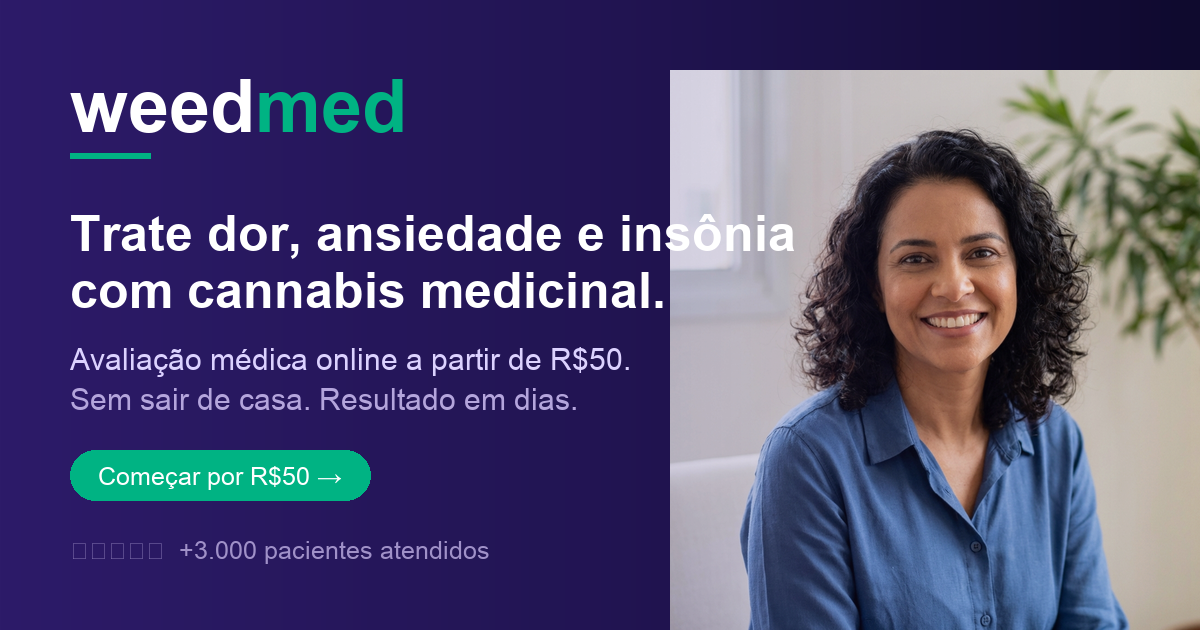
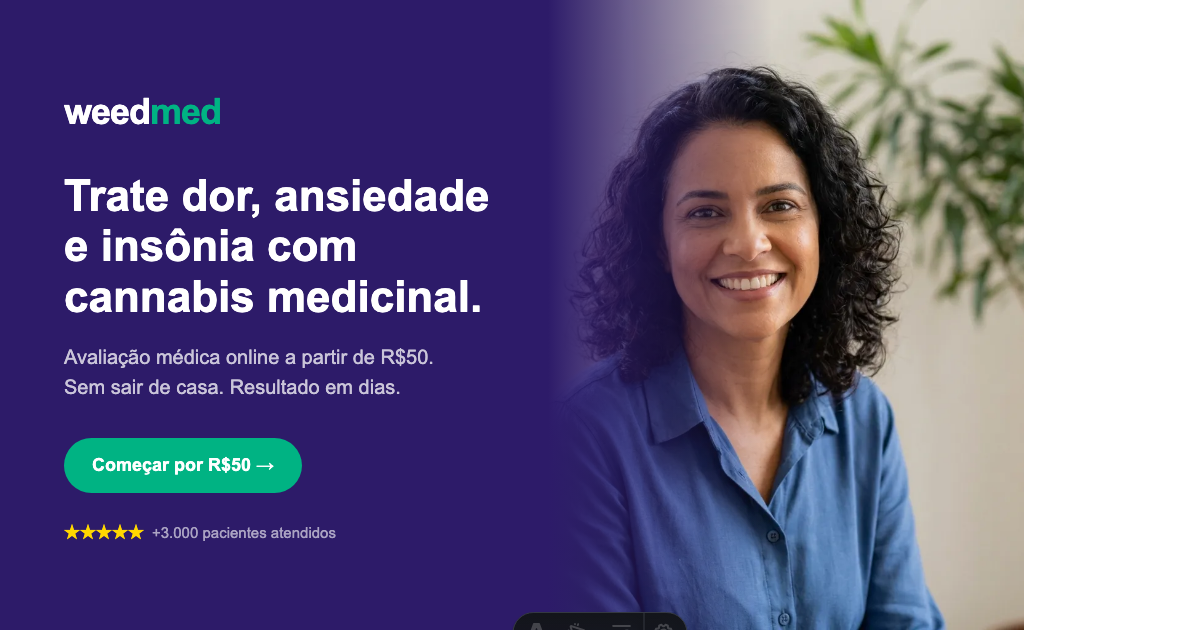
fix: hero overlap on md, lavender bg, open-chat CTAs, og-image redesign
- HeroStatic: constrain text to md:max-w-[52%] to prevent image overlap on ~900px screens
- Doctors: bg #F9F8FF → #EDE9F8 (visible lavender background)
- FAQ, Steps, ProblemPicker: replace querySelector workaround with open-chat class directly on buttons
- og-image.png: redesigned with text left / photo right, no overlap

diff --git a/src/components/Steps.tsx b/src/components/Steps.tsx
@@ -190,8 +190,7 @@ export default function Steps() {
               Fale <strong className="text-gray-700 font-semibold">gratuitamente</strong> com um consultor especialista pelo WhatsApp. Em minutos ele entende sua situação e te orienta sobre o melhor caminho.
             </p>
             <button
-              onClick={() => document.querySelector<HTMLElement>('.open-chat')?.click()}
-              className="inline-flex items-center gap-1 text-sm font-semibold hover:opacity-75 transition-opacity text-left"
+              className="open-chat inline-flex items-center gap-1 text-sm font-semibold hover:opacity-75 transition-opacity text-left"
               style={{ color: '#00B383', fontFamily: "'Inter', system-ui, sans-serif" }}
               data-cta="steps_whatsapp"
             >

diff --git a/src/components/FAQ.tsx b/src/components/FAQ.tsx
@@ -142,8 +142,7 @@ export default function FAQ() {
             Ainda tem dúvidas?
           </p>
           <button
-            onClick={() => document.querySelector<HTMLElement>('.open-chat')?.click()}
-            className="inline-flex items-center gap-2 px-6 py-3 rounded-full text-sm font-semibold text-white transition-opacity hover:opacity-90"
+            className="open-chat inline-flex items-center gap-2 px-6 py-3 rounded-full text-sm font-semibold text-white transition-opacity hover:opacity-90"
             style={{ backgroundColor: '#2D1B69', fontFamily: "'Inter', system-ui, sans-serif" }}
             data-cta="faq_consultor"
           >

diff --git a/src/components/ProblemPicker.tsx b/src/components/ProblemPicker.tsx
@@ -195,8 +195,7 @@ export default function ProblemPicker() {
           >
             Tem dúvida se é para você?{' '}
             <button
-              onClick={() => document.querySelector<HTMLElement>('.open-chat')?.click()}
-              className="underline hover:text-[#2D1B69] transition-colors font-medium"
+              className="open-chat underline hover:text-[#2D1B69] transition-colors font-medium"
             >
               Converse com nossa equipe →
             </button>

diff --git a/src/components/Doctors.tsx b/src/components/Doctors.tsx
@@ -100,7 +100,7 @@ function Doctors() {
   }
 
   return (
-    <section id="especialistas" className="py-16 md:py-20 overflow-x-hidden" style={{ backgroundColor: '#F9F8FF' }}>
+    <section id="especialistas" className="py-16 md:py-20 overflow-x-hidden" style={{ backgroundColor: '#EDE9F8' }}>
       <div className="max-w-7xl mx-auto px-6 sm:px-8 lg:px-12">
         <div className="grid lg:grid-cols-2 gap-10 lg:gap-16 items-center">
 
